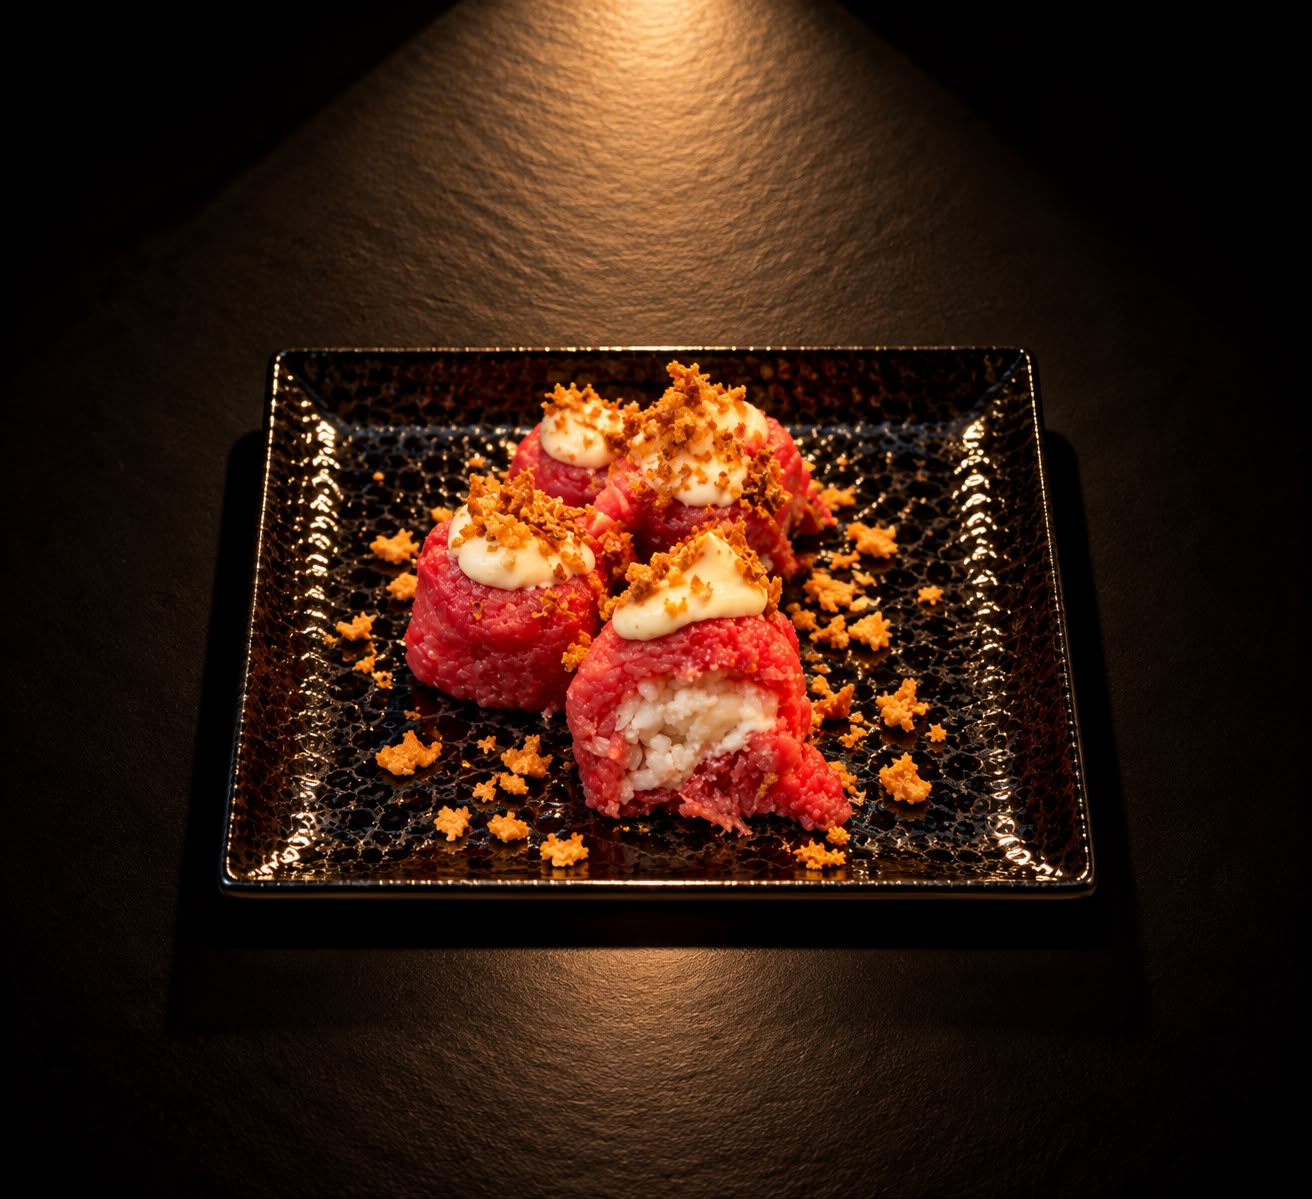
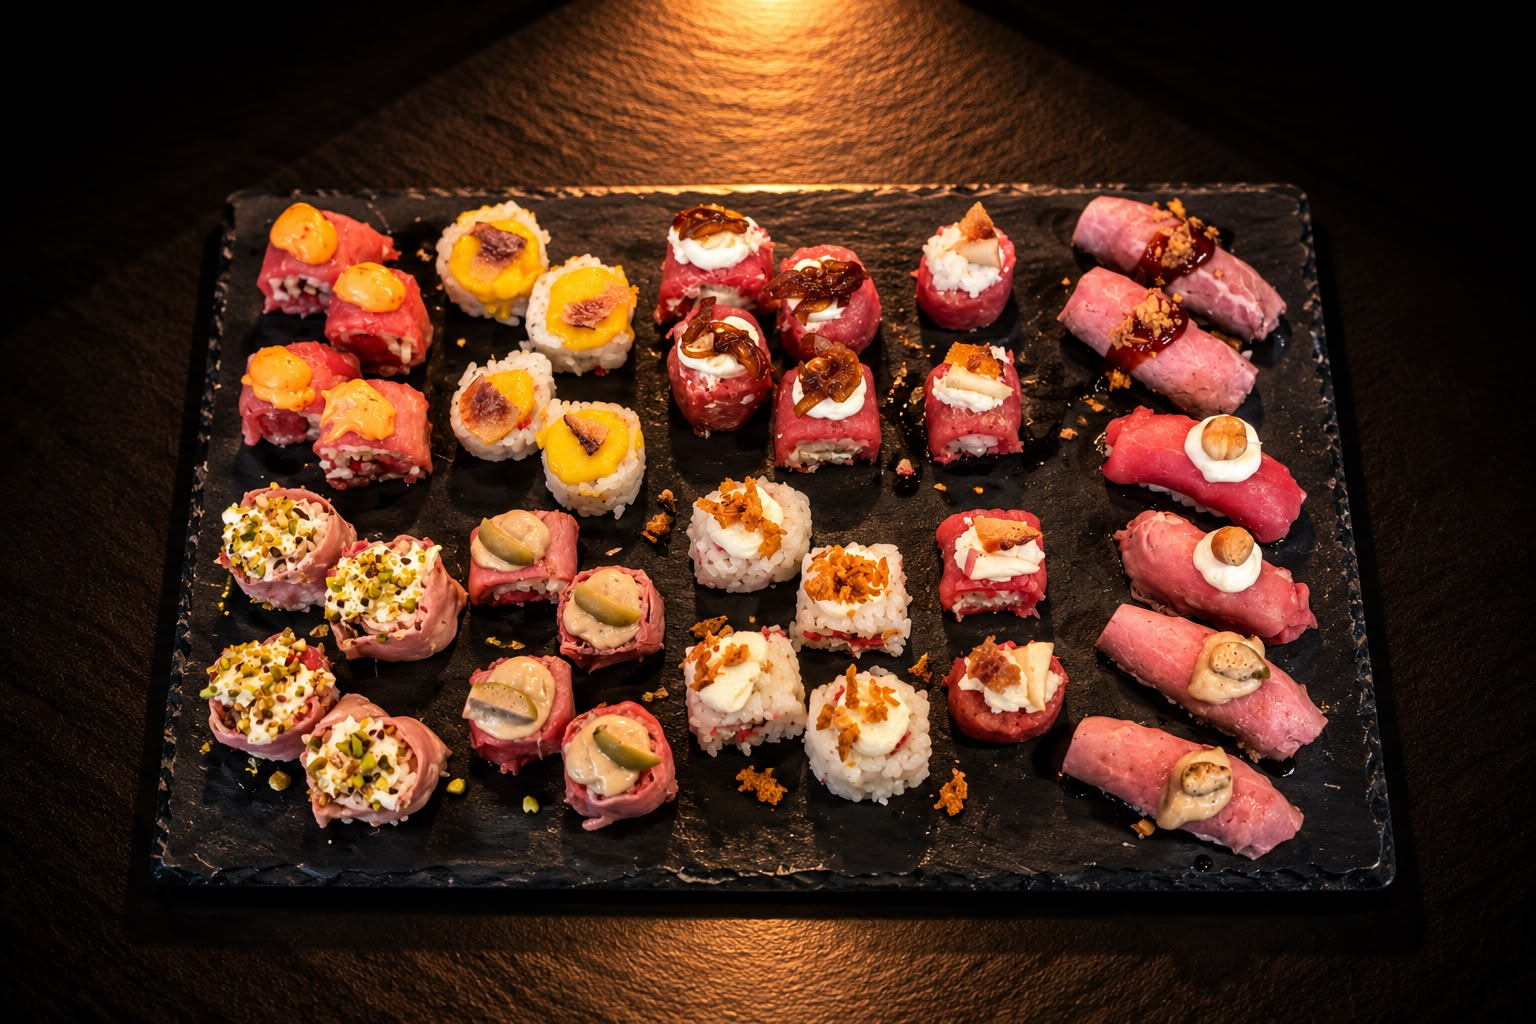
Hero Serata Sushi: titolo 'Ami il sushi? provalo di carne', righe distanziate, sottotitolo cena 22,90 + ogni lunedi sera, video piu scuro, nuova foto assortimento nel box offerta

diff --git a/index.html b/index.html
@@ -80,10 +80,10 @@ video.hero-video{filter:none;-webkit-mask-image:none;mask-image:none;
 .hero::before{content:"";position:absolute;inset:0;z-index:1;background:linear-gradient(180deg,rgba(10,9,8,.42),rgba(10,9,8,.2) 42%,rgba(10,9,8,.94) 96%)}
 /* video sushi dell'hero: a tutto riquadro, sopra l'immagine. Niente mask: la
    leggibilità del testo la dà il gradiente .hero::before qui sopra. */
-.hero-vid-sushi{z-index:0;height:100%;object-fit:cover;-webkit-mask-image:none;mask-image:none}
+.hero-vid-sushi{z-index:0;height:100%;object-fit:cover;-webkit-mask-image:none;mask-image:none;filter:brightness(.56) saturate(1.08)}
 .hero-vid-sushi::-webkit-media-controls,.hero-vid-sushi::-webkit-media-controls-start-playback-button{display:none!important;-webkit-appearance:none}
 .hero-inner{position:relative;z-index:2;max-width:1120px}
-.hero .badge{margin-bottom:18px;background:rgba(10,9,8,.7)}
+.hero .badge{margin-bottom:26px;background:rgba(10,9,8,.7)}
 .hero h1{font-size:clamp(64px,13vw,196px);text-shadow:0 4px 34px rgba(0,0,0,.65)}
 .hero h1 .l2{color:var(--red)}
 /* titolo su due righe ("Polletto" / "alla griglia"): ogni riga resta intera,
@@ -97,7 +97,10 @@ video.hero-video{filter:none;-webkit-mask-image:none;mask-image:none;
    ombra per restare leggibile sopra il video */
 .hero .scarsita-hero{margin:14px auto 0;color:var(--gold);font-family:"Inter",sans-serif;font-weight:500;
   font-size:12.5px;letter-spacing:.18em;text-transform:uppercase;text-shadow:0 1px 10px rgba(0,0,0,.9)}
-.hero .sottotitolo-hero{margin:14px auto 30px;color:#fff;font-family:"Anton","Arial Narrow",sans-serif;
+.hero .sottotitolo-hero{margin:30px auto 20px;color:#fff;font-family:"Anton","Arial Narrow",sans-serif;
+  text-transform:uppercase;letter-spacing:.04em;line-height:1.3;font-size:clamp(13px,3.3vw,18px);
+  text-shadow:0 2px 14px rgba(0,0,0,.8)}
+.hero .quando-hero{margin:2px auto 40px;color:#fff;font-family:"Anton","Arial Narrow",sans-serif;
   text-transform:uppercase;letter-spacing:.04em;line-height:1.1;font-size:clamp(20px,5.4vw,34px);
   text-shadow:0 2px 14px rgba(0,0,0,.8)}
 .hero .lead{color:#eadfd4;font-size:19px;max-width:42ch;margin:24px auto 32px;text-shadow:0 2px 16px rgba(0,0,0,.8)}
@@ -356,9 +359,9 @@ src="https://www.facebook.com/tr?id=1752658912398511&ev=PageView&noscript=1"
   </video>
   <div class="wrap hero-inner">
     <span class="badge"><span class="dot"></span>Pianezza · Largo II Giugno 2</span>
-    <h1 class="display">Se ami il sushi<br><span class="l2">provalo di carne</span></h1>
-    <p class="descr-hero">Non pesce: roll e nigiri di sola carne selezionata, lavorati a mano</p>
-    <p class="sottotitolo-hero">Solo a Pianezza da I Love Meat · intera cena di sushi di carne a 22,90€</p>
+    <h1 class="display">Ami il sushi?<br><span class="l2">provalo di carne</span></h1>
+    <p class="sottotitolo-hero">Intera cena di sushi di carne selezionata a soli 22,90€</p>
+    <p class="quando-hero">Ogni lunedì sera</p>
     <div class="cta-row">
       <a class="btn" href="#book">Prenota un tavolo</a>
     </div>
@@ -383,7 +386,7 @@ src="https://www.facebook.com/tr?id=1752658912398511&ev=PageView&noscript=1"
         <div class="fine">Posti limitati</div>
       </div>
       <figure class="offer-foto">
-        <img src="offerta-sushi.jpg" decoding="async" alt="Piatto di sushi di carne con topping cremoso" loading="lazy">
+        <img src="offerta-sushi.jpg" decoding="async" alt="Tagliere con l'assortimento di sushi di carne: roll e nigiri" loading="lazy">
       </figure>
     </div>
   </div>
